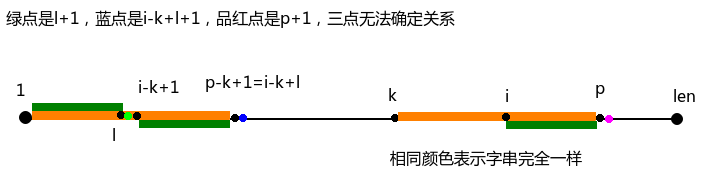
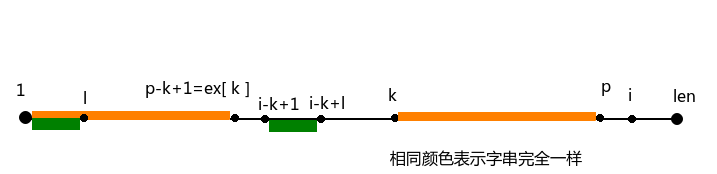
Site updated: 2019-08-23 14:26:48

diff --git a/2019/08/23/EXKMP/index.html b/2019/08/23/EXKMP/index.html
@@ -111,7 +111,8 @@
 <meta property="og:image" content="https://zimocp.github.io/images/EXKMP/5.png">
 <meta property="og:image" content="https://zimocp.github.io/images/EXKMP/6.png">
 <meta property="og:image" content="https://zimocp.github.io/images/EXKMP/7.png">
-<meta property="og:updated_time" content="2019-08-23T03:43:47.301Z">
+<meta property="og:image" content="https://zimocp.github.io/images/EXKMP/8.png">
+<meta property="og:updated_time" content="2019-08-23T06:25:51.994Z">
 <meta name="twitter:card" content="summary">
 <meta name="twitter:title" content="EXKMP">
 <meta name="twitter:description" content="因为最近学各种字符串算法，觉得EXKMP不太好理解，担心以后忘了所以写一篇博客">
@@ -420,7 +421,7 @@
                 
               
 
-              <time title="创建时间：2019-08-23 10:13:38 / 修改时间：11:43:47" itemprop="dateCreated datePublished" datetime="2019-08-23T10:13:38+08:00">2019-08-23</time>
+              <time title="创建时间：2019-08-23 10:13:38 / 修改时间：14:25:51" itemprop="dateCreated datePublished" datetime="2019-08-23T10:13:38+08:00">2019-08-23</time>
             
 
             
@@ -493,23 +494,32 @@
 <p>接下来我们定一个<code>l=ex[i-k+1]</code>让<code>[1,l]</code>和<code>[i-k+1,i-k+1+l-1 = i-k+l]</code>匹配</p>
 <p><img src="/images/EXKMP/4.png" alt></p>
 <p>接下来就不会有任何定义了</p>
-<h3 id="懒人结论"><a href="#懒人结论" class="headerlink" title="懒人结论"></a>懒人结论</h3><p>不想看过程的话结果就在这里：</p>
-<ol>
-<li><code>i+l &lt; p+1</code>的话<code>ex[i]=l</code></li>
-<li><code>i+l &gt; p+1</code>的话<code>ex[i]=p-i+1</code></li>
-<li><code>i+l = p+1</code>的话只能暴力求，暴力的起点分两个情况<ul>
-<li><code>i&gt;p</code> 从<code>i</code>开始和开头暴力比较</li>
-<li><code>i&lt;p</code> 从<code>p</code>开始，<code>ex[i]=p-i+暴力的p后面的个数</code></li>
-</ul>
-</li>
-</ol>
-<h3 id="开始证明"><a href="#开始证明" class="headerlink" title="开始证明"></a>开始证明</h3><p>这个l还要分类讨论，实在是过于恶心</p>
+<h3 id="推式子"><a href="#推式子" class="headerlink" title="推式子"></a>推式子</h3><p>这个l还要分类讨论，实在是过于恶心</p>
 <h4 id="1-i-k-l-lt-p-k-1"><a href="#1-i-k-l-lt-p-k-1" class="headerlink" title="1: i-k+l &lt; p-k+1"></a>1: i-k+l &lt; p-k+1</h4><p><img src="/images/EXKMP/5.png" alt></p>
 <p>从图中可以明显的看出<code>ex[i]=l</code><br>为什么绿点和黄点不能相等、不能是<code>ex[i]=l+1</code>呢？因为如果是这样的话<code>l</code>也就是<code>ex[i-k+1]</code>就会是在绿点那里而不是在<code>l</code>那里了</p>
 <h4 id="2-i-k-l-gt-p-k-1"><a href="#2-i-k-l-gt-p-k-1" class="headerlink" title="2: i-k+l &gt; p-k+1"></a>2: i-k+l &gt; p-k+1</h4><p><img src="/images/EXKMP/6.png" alt></p>
 <p>如图，<code>ex[i]=p-i+1</code><br>为什么<code>[1,p-i+1]</code>就会匹配<code>[i,p]</code>呢？看图就能看出来紫色部分有着等量代换的作用。。。<code>[i,p]=[i-k+1,p-k+1]=[1,p-i+1]</code><br>为什么蓝点和品红点不相等呢？因为如果相等的话<code>p</code>也就是<code>ex[k]</code>就会在品红点而不是<code>p</code>那里了</p>
-<h4 id="3-i-k-l-p-k-1"><a href="#3-i-k-l-p-k-1" class="headerlink" title="3: i-k+l = p-k+1"></a>3: i-k+l = p-k+1</h4><p><img src="/images/EXKMP/7.png" alt></p>
+<p>但是！我们可以发现一个bug：要是<code>p&lt;i</code>呢，那不就可能是负数了么？</p>
+<p><img src="/images/EXKMP/7.png" alt></p>
+<p>很明显这样的话也就只能暴力求了</p>
+<h4 id="3-i-k-l-p-k-1"><a href="#3-i-k-l-p-k-1" class="headerlink" title="3: i-k+l = p-k+1"></a>3: i-k+l = p-k+1</h4><p><img src="/images/EXKMP/8.png" alt></p>
 <p>因为三个点不知道关系，所以只能暴力从<code>p</code>往后求</p>
+<h4 id="结论"><a href="#结论" class="headerlink" title="结论"></a>结论</h4><ol>
+<li><code>i+l &lt; p+1</code>的话<code>ex[i]=l</code></li>
+<li><code>i+l &gt; p+1</code>的话分两种情况<code>ex[i]=p-i+1</code><ul>
+<li><code>p&gt;i</code>: <code>ex[i]=p-i+1</code></li>
+<li><code>i&gt;p</code> 从<code>i</code>开始和开头暴力比较</li>
+</ul>
+</li>
+<li><code>i+l = p+1</code>的话只能暴力求，从<code>p</code>开始，<code>ex[i]=p-i+暴力的p后面的个数</code></li>
+</ol>
+<p>我们会发现有两个暴力内容，只是起点不一样，可以把这两种变成一种</p>
+<p>上面的结论只是对于一个字符串，但是两个字符串的过程也类似<br>设<code>A</code>是长串，<code>B</code>是短串，<code>ex[i]</code>就是<code>A[i~len_a]</code>和<code>B[1~len_b]</code>的最长公共前缀<br>先按上面办法求出<code>B</code>的<code>ex</code>然后再拿<code>A</code>的子串和<code>B</code>的开头比较就好了</p>
+<h2 id="模板题"><a href="#模板题" class="headerlink" title="模板题"></a>模板题</h2><h3 id="题目"><a href="#题目" class="headerlink" title="题目"></a>题目</h3><blockquote>
+<p>EXKMP模版：最长共同前缀长度<br>[题目描述]<br>给出模板串A和子串B，长度分别为lenA和lenB，要求在线性时间内，对于每个A[i]（1&lt;=i&lt;=lenA)，求出A[i..lenA]与B的最长公共前缀长度<br>[输入格式]<br>输入A，B两个串，（lenB&lt;=lenA&lt;=1000000)<br>[输出格式]<br>输出lenA个数，表示A[i…lenA]与B的最长公共前缀长度，每个数之前有空格<br>[样例输入]<br>aabbabaaab<br>aabb<br>[样例输出]<br>4 1 0 0 1 0 2 3 1 0 </p>
+</blockquote>
+<p>完全就是上面讲的，套就好了</p>
+<h3 id="Code"><a href="#Code" class="headerlink" title="Code"></a>Code</h3><figure class="highlight cpp"><table><tr><td class="gutter"><pre><span class="line">1</span><br><span class="line">2</span><br><span class="line">3</span><br><span class="line">4</span><br><span class="line">5</span><br><span class="line">6</span><br><span class="line">7</span><br><span class="line">8</span><br><span class="line">9</span><br><span class="line">10</span><br><span class="line">11</span><br><span class="line">12</span><br><span class="line">13</span><br><span class="line">14</span><br><span class="line">15</span><br><span class="line">16</span><br><span class="line">17</span><br><span class="line">18</span><br><span class="line">19</span><br><span class="line">20</span><br><span class="line">21</span><br><span class="line">22</span><br><span class="line">23</span><br><span class="line">24</span><br><span class="line">25</span><br><span class="line">26</span><br><span class="line">27</span><br><span class="line">28</span><br><span class="line">29</span><br><span class="line">30</span><br><span class="line">31</span><br><span class="line">32</span><br><span class="line">33</span><br><span class="line">34</span><br><span class="line">35</span><br><span class="line">36</span><br><span class="line">37</span><br><span class="line">38</span><br><span class="line">39</span><br><span class="line">40</span><br><span class="line">41</span><br><span class="line">42</span><br><span class="line">43</span><br><span class="line">44</span><br><span class="line">45</span><br><span class="line">46</span><br><span class="line">47</span><br><span class="line">48</span><br><span class="line">49</span><br><span class="line">50</span><br><span class="line">51</span><br><span class="line">52</span><br><span class="line">53</span><br><span class="line">54</span><br><span class="line">55</span><br><span class="line">56</span><br><span class="line">57</span><br><span class="line">58</span><br><span class="line">59</span><br><span class="line">60</span><br><span class="line">61</span><br><span class="line">62</span><br><span class="line">63</span><br><span class="line">64</span><br><span class="line">65</span><br><span class="line">66</span><br><span class="line">67</span><br><span class="line">68</span><br><span class="line">69</span><br><span class="line">70</span><br><span class="line">71</span><br><span class="line">72</span><br><span class="line">73</span><br><span class="line">74</span><br></pre></td><td class="code"><pre><span class="line"><span class="meta">#<span class="meta-keyword">include</span> <span class="meta-string">&lt;bits/stdc++.h&gt;</span></span></span><br><span class="line"><span class="keyword">using</span> <span class="keyword">namespace</span> <span class="built_in">std</span>;</span><br><span class="line"></span><br><span class="line"><span class="comment">//两个串</span></span><br><span class="line"><span class="keyword">char</span> sa[ <span class="number">1110000</span> ], sb[ <span class="number">1110000</span> ];</span><br><span class="line"></span><br><span class="line"><span class="comment">// p: b的ex  ex: 两个串的ex（看上面写的定义）</span></span><br><span class="line"><span class="keyword">int</span> p[ <span class="number">1110000</span> ], ex[ <span class="number">1110000</span> ];</span><br><span class="line"></span><br><span class="line"><span class="function"><span class="keyword">void</span> <span class="title">exkmp</span><span class="params">( <span class="keyword">int</span> lena, <span class="keyword">int</span> lenb )</span></span></span><br><span class="line"><span class="function"></span>&#123;</span><br><span class="line">    <span class="comment">//ex[1]</span></span><br><span class="line">    p[ <span class="number">1</span> ] = lenb;</span><br><span class="line">    <span class="comment">//先暴力求出ex[2]</span></span><br><span class="line">    p[ <span class="number">2</span> ] = <span class="number">1</span>;</span><br><span class="line">    <span class="keyword">while</span> ( p[ <span class="number">2</span> ] + <span class="number">1</span> &lt;= lenb &amp;&amp; sb[ p[ <span class="number">2</span> ] ] == sb[ p[ <span class="number">2</span> ] + <span class="number">1</span> ] )</span><br><span class="line">        p[ <span class="number">2</span> ]++;</span><br><span class="line">    p[ <span class="number">2</span> ]--;</span><br><span class="line">    <span class="keyword">int</span> k = <span class="number">2</span>;</span><br><span class="line">    <span class="keyword">for</span> ( <span class="keyword">int</span> i = <span class="number">3</span>; i &lt;= lenb; i++ )</span><br><span class="line">    &#123;</span><br><span class="line">        <span class="comment">//pp: 上面所讲的p  l就是l</span></span><br><span class="line">        <span class="keyword">int</span> pp = k + p[ k ] - <span class="number">1</span>, l = p[ i - k + <span class="number">1</span> ];</span><br><span class="line">        <span class="comment">//第一种情况：不用暴力直接得出</span></span><br><span class="line">        <span class="keyword">if</span> ( i + l &lt; pp + <span class="number">1</span> )</span><br><span class="line">            p[ i ] = l;</span><br><span class="line">        <span class="keyword">else</span></span><br><span class="line">        &#123;</span><br><span class="line">            <span class="comment">//第二种情况：暴力</span></span><br><span class="line">            <span class="keyword">int</span> j = pp - i + <span class="number">1</span>;</span><br><span class="line">            <span class="keyword">if</span> ( j &lt; <span class="number">0</span> )</span><br><span class="line">                j = <span class="number">0</span>;</span><br><span class="line">            <span class="keyword">while</span> ( sb[ j + <span class="number">1</span> ] == sb[ i + j ] &amp;&amp; i + j &lt;= lenb )</span><br><span class="line">                j++;</span><br><span class="line">            p[ i ] = j;</span><br><span class="line">            k      = i;</span><br><span class="line">        &#125;</span><br><span class="line">    &#125;</span><br><span class="line">    <span class="comment">//暴力出第一个</span></span><br><span class="line">    ex[ <span class="number">1</span> ] = <span class="number">1</span>;</span><br><span class="line">    <span class="keyword">while</span> ( sa[ ex[ <span class="number">1</span> ] ] == sb[ ex[ <span class="number">1</span> ] ] &amp;&amp; ex[ <span class="number">1</span> ] &lt;= lenb )</span><br><span class="line">        ex[ <span class="number">1</span> ]++;</span><br><span class="line">    ex[ <span class="number">1</span> ]--;</span><br><span class="line">    <span class="comment">//几乎一模一样的过程。。。</span></span><br><span class="line">    k = <span class="number">1</span>;</span><br><span class="line">    <span class="keyword">for</span> ( <span class="keyword">int</span> i = <span class="number">2</span>; i &lt;= lena; i++ )</span><br><span class="line">    &#123;</span><br><span class="line">        <span class="keyword">int</span> pp = k + ex[ k ] - <span class="number">1</span>, l = p[ i - k + <span class="number">1</span> ];</span><br><span class="line">        <span class="keyword">if</span> ( i + l &lt;= pp )</span><br><span class="line">            ex[ i ] = l;</span><br><span class="line">        <span class="keyword">else</span></span><br><span class="line">        &#123;</span><br><span class="line">            <span class="keyword">int</span> j = pp - i + <span class="number">1</span>;</span><br><span class="line">            <span class="keyword">if</span> ( j &lt; <span class="number">0</span> )</span><br><span class="line">                j = <span class="number">0</span>;</span><br><span class="line">            <span class="keyword">while</span> ( sb[ j + <span class="number">1</span> ] == sa[ i + j ] &amp;&amp; i + j &lt;= lena &amp;&amp;</span><br><span class="line">                    j + <span class="number">1</span> &lt;= lenb )</span><br><span class="line">                j++;</span><br><span class="line">            ex[ i ] = j;</span><br><span class="line">            k       = i;</span><br><span class="line">        &#125;</span><br><span class="line">    &#125;</span><br><span class="line">&#125;</span><br><span class="line"></span><br><span class="line"><span class="function"><span class="keyword">int</span> <span class="title">main</span><span class="params">()</span></span></span><br><span class="line"><span class="function"></span>&#123;</span><br><span class="line">    <span class="built_in">scanf</span>( <span class="string">"%s%s"</span>, sa + <span class="number">1</span>, sb + <span class="number">1</span> );</span><br><span class="line">    <span class="keyword">int</span> lena = <span class="built_in">strlen</span>( sa + <span class="number">1</span> ), lenb = <span class="built_in">strlen</span>( sb + <span class="number">1</span> );</span><br><span class="line">    exkmp( lena, lenb );</span><br><span class="line">    <span class="keyword">for</span> ( <span class="keyword">int</span> i = <span class="number">1</span>; i &lt; lena; i++ )</span><br><span class="line">        <span class="built_in">printf</span>( <span class="string">"%d "</span>, ex[ i ] );</span><br><span class="line">    <span class="built_in">printf</span>( <span class="string">"%d\n"</span>, ex[ lena ] );</span><br><span class="line">    <span class="keyword">return</span> <span class="number">0</span>;</span><br><span class="line">&#125;</span><br></pre></td></tr></table></figure>
 
       
     </div>
@@ -809,7 +819,7 @@
             
 
             
-              <div class="post-toc-content"><ol class="nav"><li class="nav-item nav-level-2"><a class="nav-link" href="#EXKMP是什么、干什么的"><span class="nav-number">1.</span> <span class="nav-text">EXKMP是什么、干什么的</span></a></li><li class="nav-item nav-level-2"><a class="nav-link" href="#怎么做"><span class="nav-number">2.</span> <span class="nav-text">怎么做</span></a><ol class="nav-child"><li class="nav-item nav-level-3"><a class="nav-link" href="#一些定义"><span class="nav-number">2.1.</span> <span class="nav-text">一些定义</span></a></li><li class="nav-item nav-level-3"><a class="nav-link" href="#懒人结论"><span class="nav-number">2.2.</span> <span class="nav-text">懒人结论</span></a></li><li class="nav-item nav-level-3"><a class="nav-link" href="#开始证明"><span class="nav-number">2.3.</span> <span class="nav-text">开始证明</span></a><ol class="nav-child"><li class="nav-item nav-level-4"><a class="nav-link" href="#1-i-k-l-lt-p-k-1"><span class="nav-number">2.3.1.</span> <span class="nav-text">1: i-k+l &lt; p-k+1</span></a></li><li class="nav-item nav-level-4"><a class="nav-link" href="#2-i-k-l-gt-p-k-1"><span class="nav-number">2.3.2.</span> <span class="nav-text">2: i-k+l &gt; p-k+1</span></a></li><li class="nav-item nav-level-4"><a class="nav-link" href="#3-i-k-l-p-k-1"><span class="nav-number">2.3.3.</span> <span class="nav-text">3: i-k+l = p-k+1</span></a></li></ol></li></ol></li></ol></div>
+              <div class="post-toc-content"><ol class="nav"><li class="nav-item nav-level-2"><a class="nav-link" href="#EXKMP是什么、干什么的"><span class="nav-number">1.</span> <span class="nav-text">EXKMP是什么、干什么的</span></a></li><li class="nav-item nav-level-2"><a class="nav-link" href="#怎么做"><span class="nav-number">2.</span> <span class="nav-text">怎么做</span></a><ol class="nav-child"><li class="nav-item nav-level-3"><a class="nav-link" href="#一些定义"><span class="nav-number">2.1.</span> <span class="nav-text">一些定义</span></a></li><li class="nav-item nav-level-3"><a class="nav-link" href="#推式子"><span class="nav-number">2.2.</span> <span class="nav-text">推式子</span></a><ol class="nav-child"><li class="nav-item nav-level-4"><a class="nav-link" href="#1-i-k-l-lt-p-k-1"><span class="nav-number">2.2.1.</span> <span class="nav-text">1: i-k+l &lt; p-k+1</span></a></li><li class="nav-item nav-level-4"><a class="nav-link" href="#2-i-k-l-gt-p-k-1"><span class="nav-number">2.2.2.</span> <span class="nav-text">2: i-k+l &gt; p-k+1</span></a></li><li class="nav-item nav-level-4"><a class="nav-link" href="#3-i-k-l-p-k-1"><span class="nav-number">2.2.3.</span> <span class="nav-text">3: i-k+l = p-k+1</span></a></li><li class="nav-item nav-level-4"><a class="nav-link" href="#结论"><span class="nav-number">2.2.4.</span> <span class="nav-text">结论</span></a></li></ol></li></ol></li><li class="nav-item nav-level-2"><a class="nav-link" href="#模板题"><span class="nav-number">3.</span> <span class="nav-text">模板题</span></a><ol class="nav-child"><li class="nav-item nav-level-3"><a class="nav-link" href="#题目"><span class="nav-number">3.1.</span> <span class="nav-text">题目</span></a></li><li class="nav-item nav-level-3"><a class="nav-link" href="#Code"><span class="nav-number">3.2.</span> <span class="nav-text">Code</span></a></li></ol></li></ol></div>
             
 
           </div>

diff --git a/index.html b/index.html
@@ -413,7 +413,7 @@
                 
               
 
-              <time title="创建时间：2019-08-23 10:13:38 / 修改时间：11:43:47" itemprop="dateCreated datePublished" datetime="2019-08-23T10:13:38+08:00">2019-08-23</time>
+              <time title="创建时间：2019-08-23 10:13:38 / 修改时间：14:25:51" itemprop="dateCreated datePublished" datetime="2019-08-23T10:13:38+08:00">2019-08-23</time>
             
 
             

diff --git a/css/main.css b/css/main.css
@@ -1827,7 +1827,7 @@ pre .javascript .function {
   width: 4px;
   height: 4px;
   border-radius: 50%;
-  background: #fffffb;
+  background: #ff259e;
 }
 .feed-link,
 .chat {
